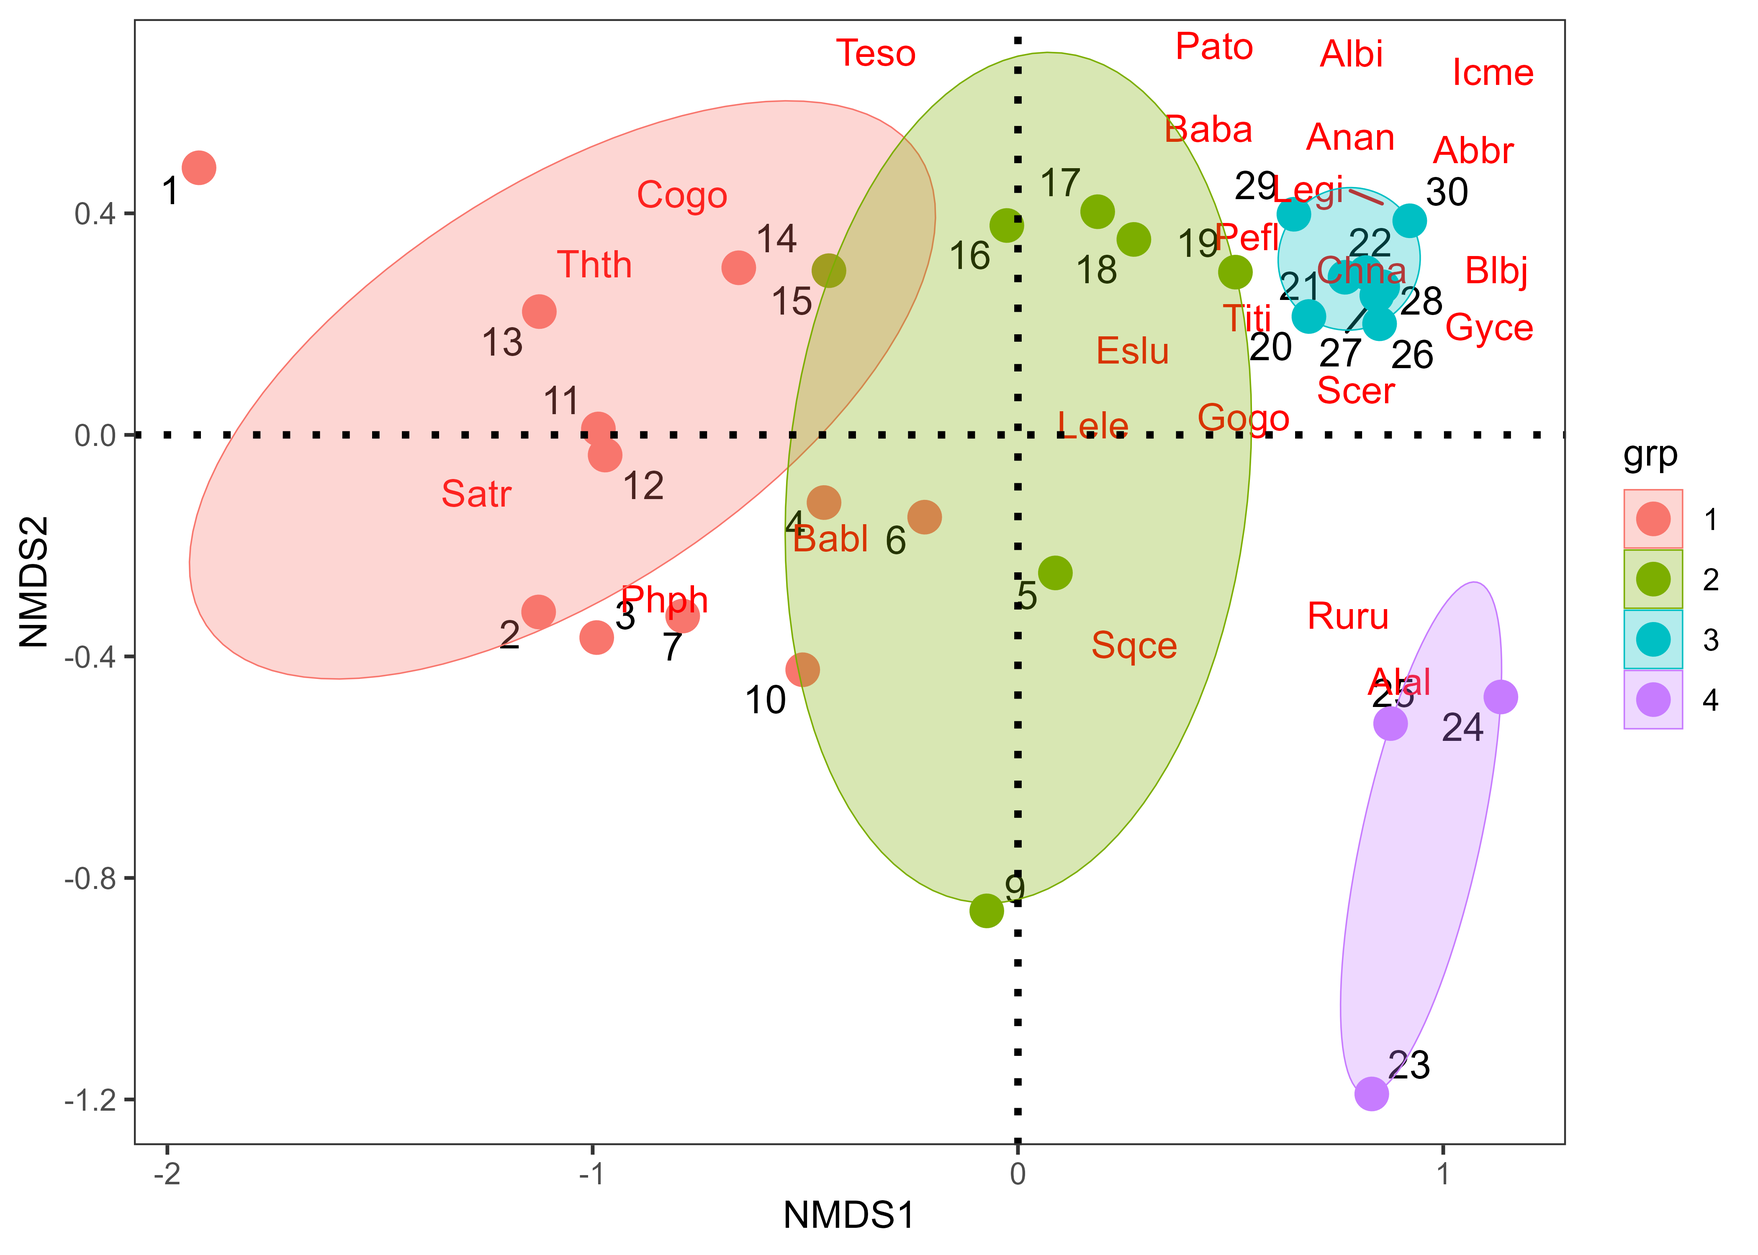
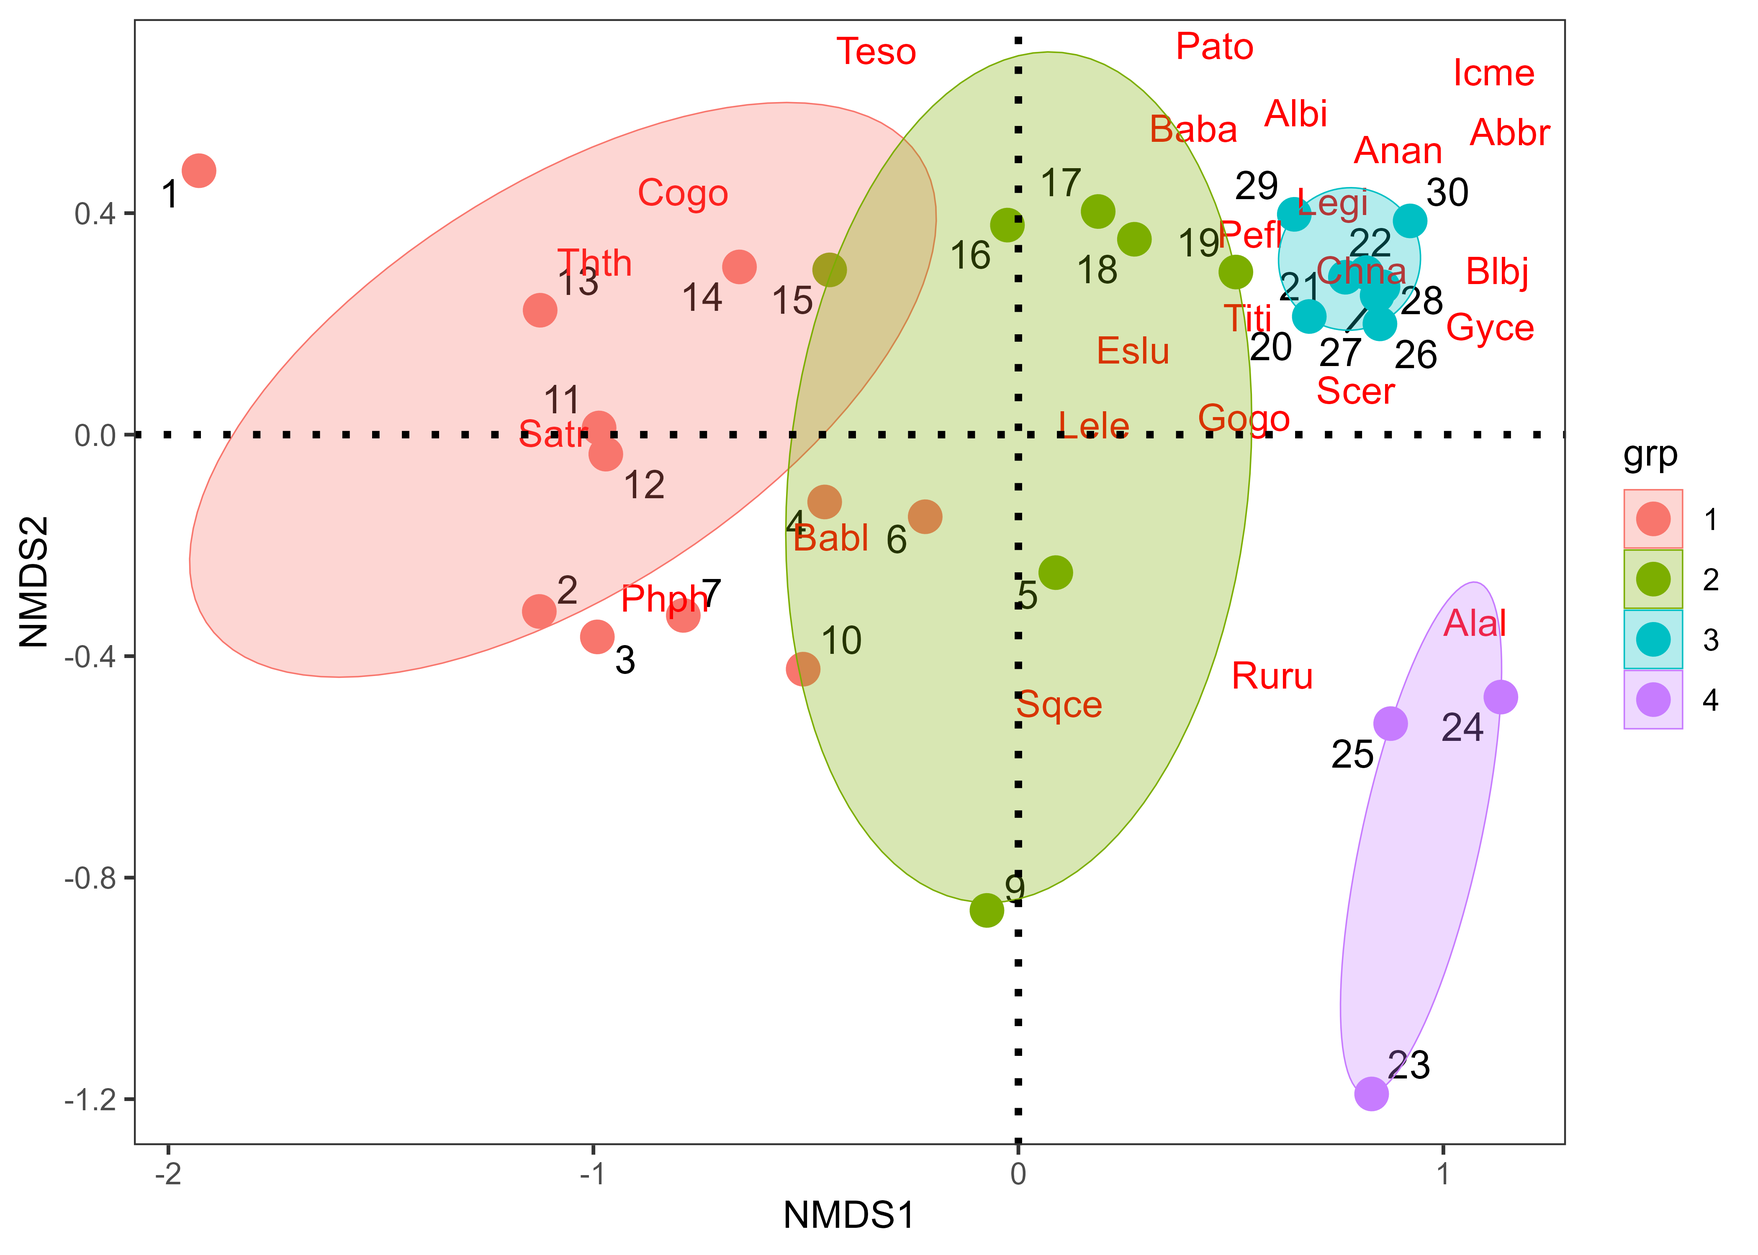
summary

diff --git a/9.Manual_mv_26/html/Taller3.exploratorios1.html b/9.Manual_mv_26/html/Taller3.exploratorios1.html
@@ -342,7 +342,7 @@ div.csl-indent {
 
 <section id="resumen-de-las-actividades" class="level2">
 <h2 class="anchored" data-anchor-id="resumen-de-las-actividades">Resumen de las actividades</h2>
-<p><img src="https://javier-2712.github.io/Manuales/9.Manual_mv_26/html/Figuras/figura_videos_exploratorios.png" class="img-fluid" width="600"></p>
+<p><img src="https://javier-2712.github.io/Manuales/9.Manual_mv_26/figuras/figura_videos_exploratorios.png" class="img-fluid" width="600"></p>
 <div class="callout callout-style-default callout-tip callout-titled">
 <div class="callout-header d-flex align-content-center">
 <div class="callout-icon-container">
@@ -447,7 +447,7 @@ Tabla&nbsp;1: Comparación de estrategias visuales para análisis ecológico exp
 </section>
 <section id="diapositivas-de-la-sección-versión-2023" class="level3">
 <h3 class="anchored" data-anchor-id="diapositivas-de-la-sección-versión-2023">Diapositivas de la sección (versión 2023)</h3>
-<p><img src="https://javier-2712.github.io/Manuales/9.Manual_mv_26/html/Figuras/Captura.JPG" class="img-fluid" width="356"></p>
+<p><img src="https://javier-2712.github.io/Manuales/9.Manual_mv_26/figuras/Captura.JPG" class="img-fluid" width="356"></p>
 <p>Es necesario abrir el siguiente enlace, las diapositivas solo avanzarán en la sesión de clases, por estar programadas para ser presentadas en vivo.</p>
 <p><a href="https://javier-2712.github.io/Multivariados/Taller.3.explor.multivar/diapositivas.exploratorios/Clase3.-Exploratorios.html#1">Diapositivas_exploratorios multivariados</a></p>
 <hr>
@@ -463,7 +463,7 @@ Tabla&nbsp;1: Comparación de estrategias visuales para análisis ecológico exp
 <p><strong>Nota:</strong> una vez se descarguen los materiales, se requiere descomprimirlos antes de realizar cualquier procedimiento y seguir las orientaciones del docente para realizar los ejercicios requeridos. Al final de cada taller hay un cuestionario que servirá para afianzar el entrenamiento sobre esta temática.</p>
 <section id="diapositivas-en-vivo---slides.com" class="level3">
 <h3 class="anchored" data-anchor-id="diapositivas-en-vivo---slides.com">Diapositivas en vivo - Slides.com</h3>
-<p><img src="https://javier-2712.github.io/Manuales/9.Manual_mv_26/html/Figuras/slides.com.png" class="img-fluid" width="150"></p>
+<p><img src="https://javier-2712.github.io/Manuales/9.Manual_mv_26/figuras/slides.com.png" class="img-fluid" width="150"></p>
 <ul>
 <li>📰 <a href="https://slides.com/d/IBI6xvY/live">Diapositivas del Taller 3.1_insectos_acuáticos</a></li>
 <li>📰 <a href="https://slides.com/d/gbwx5fY/live">Diapositivas del taller 3.2_mesozooplancton</a></li>
@@ -474,7 +474,7 @@ Tabla&nbsp;1: Comparación de estrategias visuales para análisis ecológico exp
 </section>
 <section id="asignación-4.-exlploración-gráfica-con-datos-de-peces" class="level3">
 <h3 class="anchored" data-anchor-id="asignación-4.-exlploración-gráfica-con-datos-de-peces">Asignación 4. Exlploración gráfica con datos de peces</h3>
-<p><img src="https://javier-2712.github.io/Manuales/9.Manual_mv_26/html/Figuras/4_icono_asignación_exploratorios.png" class="img-fluid" width="250"></p>
+<p><img src="https://javier-2712.github.io/Manuales/9.Manual_mv_26/figuras/4_icono_asignación_exploratorios.png" class="img-fluid" width="250"></p>
 <p>Basado en el artículo de <a href="https://link.springer.com/article/10.1007/s10750-021-04726-3">Miranda et al.&nbsp;(2022)</a>, <a href="https://javier-2712.github.io/Manuales/9.Manual_mv_26/asignaciones/4.visualizaci%C3%B3n/datos.xlsx">(base de datos)</a> se requiere realizar el procedimiento para el ajuste y manipulación de datos y para la visualización gráfica, como se indica a continuación.</p>
 <ul>
 <li>📰 <a href="https://javier-2712.github.io/Manuales/9.Manual_mv_26/asignaciones/4.visualizaci%C3%B3n/Taller.exploratorios.html">Pautas de la asignación 4</a></li>
@@ -485,7 +485,7 @@ Tabla&nbsp;1: Comparación de estrategias visuales para análisis ecológico exp
 </section>
 <section id="a.-caso-guiado-macroinvertebrados-bentónicos-fluviales" class="level2">
 <h2 class="anchored" data-anchor-id="a.-caso-guiado-macroinvertebrados-bentónicos-fluviales">A. Caso guiado: Macroinvertebrados bentónicos fluviales</h2>
-<p><img src="https://javier-2712.github.io/Manuales/9.Manual_mv_26/html/Figuras/macroinv.explor.png" class="img-fluid" width="650"></p>
+<p><img src="https://javier-2712.github.io/Manuales/9.Manual_mv_26/figuras/macroinv.explor.png" class="img-fluid" width="650"></p>
 <p>Este caso guiado consiste en analizar de forma gráfica a ensamblajes de macroinvertebrados bentónicos asociados a gradientes físico-químicos del río Gaira, en Santa Marta.</p>
 <p>El objetivo se orienta en trasladar la lógica de la visualización ecológica a un contexto enfocado en comparar distribuciones que permitan identificar patrones de dominancia, explorar relaciones entre variables revela gradientes ambientales, y seleccionar representaciones adecuadas facilita la interpretación de la estructura del ensamblaje.</p>
 <p>Este ejercicio consolida la visualización como una herramienta central para el análisis ecológico, permitiendo interpretar la organización de las comunidades biológicas en sistemas ambientalmente heterogéneos.</p>
@@ -1471,7 +1471,7 @@ Figura&nbsp;20: Differencias en la abundancia de insectos, los periodos de lluvi
 </section>
 <section id="b.-caso-guiado-mesozooplancton-estuarino" class="level2">
 <h2 class="anchored" data-anchor-id="b.-caso-guiado-mesozooplancton-estuarino">B. Caso guiado: Mesozooplancton estuarino</h2>
-<p><img src="https://javier-2712.github.io/Manuales/9.Manual_mv_26/html/Figuras/mesozoo.explor.png" class="img-fluid" width="650"></p>
+<p><img src="https://javier-2712.github.io/Manuales/9.Manual_mv_26/figuras/mesozoo.explor.png" class="img-fluid" width="650"></p>
 <p>El mesozooplancton constituye un componente fundamental de las redes tróficas de ambientes acuáticos, respondiendo rápidamente a cambios en parámetros ambientales asociados como salinidad, temperatura y disponibilidad de nutrientes, entre otros.</p>
 <p>A continuación se analiza un conjunto de datos de abundancia de organismos zooplanctónicos tomados de <span class="citation" data-cites="balentina2025short">Balentina et al. (<a href="#ref-balentina2025short" role="doc-biblioref">2025</a>)</span>, con el propósito de explorar su estructura mediante herramientas de visualización gráfica. Se abordarán representaciones que permiten identificar patrones de dominancia, distribución de abundancias y variabilidad entre unidades de muestreo o sitios. Se introduce además en un enfoque práctico para transformar datos ecológicos en representaciones visuales informativas, facilitando la interpretación de la dinámica comunitaria en este tipo de ecosistemas altamente fluctuantes.</p>
 <section id="resumen" class="level3">

diff --git a/9.Manual_mv_26/html/Videos_clases.html b/9.Manual_mv_26/html/Videos_clases.html
@@ -292,7 +292,7 @@ ul.task-list li input[type="checkbox"] {
 <hr>
 <section id="introducción-a-la-asignatura" class="level2 titulo-modulo">
 <h2 class="titulo-modulo anchored" data-anchor-id="introducción-a-la-asignatura">1. Introducción a la asignatura</h2>
-<p><img src="https://javier-2712.github.io/Manuales/9.Manual_mv_26/html/Figuras/figura_videos_introduccion_mv.png" class="img-fluid" width="584"></p>
+<p><img src="https://javier-2712.github.io/Manuales/9.Manual_mv_26/figuras/figura_videos_introduccion_mv.png" class="img-fluid" width="584"></p>
 <section id="teoría---introducción-a-la-asignatura" class="level3 titulo-tema">
 <h3 class="titulo-tema anchored" data-anchor-id="teoría---introducción-a-la-asignatura">Teoría - Introducción a la asignatura</h3>
 <p><span class="etiqueta-periodo">( 2026-II )</span></p>
@@ -335,7 +335,7 @@ ul.task-list li input[type="checkbox"] {
 </section>
 <section id="introducción-al-algebra-lineal" class="level2 titulo-modulo">
 <h2 class="titulo-modulo anchored" data-anchor-id="introducción-al-algebra-lineal">2. Introducción al Algebra Lineal</h2>
-<p><img src="https://javier-2712.github.io/Manuales/9.Manual_mv_26/html/Figuras/figura_videos_algebra.png" class="img-fluid" width="484"></p>
+<p><img src="https://javier-2712.github.io/Manuales/9.Manual_mv_26/figuras/figura_videos_algebra.png" class="img-fluid" width="484"></p>
 <section id="ejercicios-en-clase---aplicaciones-de-algebra" class="level3 titulo-tema">
 <h3 class="titulo-tema anchored" data-anchor-id="ejercicios-en-clase---aplicaciones-de-algebra">2. Ejercicios en clase - Aplicaciones de Algebra</h3>
 <p><span class="etiqueta-periodo">( 2026-II )</span></p>
@@ -357,7 +357,7 @@ ul.task-list li input[type="checkbox"] {
 </section>
 <section id="exploración-gráfica" class="level2 titulo-modulo">
 <h2 class="titulo-modulo anchored" data-anchor-id="exploración-gráfica">3. Exploración Gráfica</h2>
-<p><img src="https://javier-2712.github.io/Manuales/9.Manual_mv_26/html/Figuras/figura_videos_exploratorios.png" class="img-fluid" width="484"></p>
+<p><img src="https://javier-2712.github.io/Manuales/9.Manual_mv_26/figuras/figura_videos_exploratorios.png" class="img-fluid" width="484"></p>
 <section id="teoría-y-ejemplos---excel" class="level3 titulo-tema">
 <h3 class="titulo-tema anchored" data-anchor-id="teoría-y-ejemplos---excel">Teoría y ejemplos - Excel</h3>
 <p><span class="etiqueta-periodo">( Material de referencia (atemporal) )</span></p>
@@ -400,7 +400,7 @@ ul.task-list li input[type="checkbox"] {
 </section>
 <section id="ordenación-multivariada---pca" class="level2 titulo-modulo">
 <h2 class="titulo-modulo anchored" data-anchor-id="ordenación-multivariada---pca">4. Ordenación multivariada - PCA</h2>
-<p><img src="https://javier-2712.github.io/Manuales/9.Manual_mv_26/html/Figuras/figura_videos_pca.png" class="img-fluid" width="484"></p>
+<p><img src="https://javier-2712.github.io/Manuales/9.Manual_mv_26/figuras/figura_videos_pca.png" class="img-fluid" width="484"></p>
 <section id="teoría-y-ejemplos" class="level3 titulo-tema">
 <h3 class="titulo-tema anchored" data-anchor-id="teoría-y-ejemplos">Teoría y ejemplos</h3>
 <p><span class="etiqueta-periodo">( Material de referencia (atemporal) )</span></p>
@@ -428,7 +428,7 @@ ul.task-list li input[type="checkbox"] {
 </section>
 <section id="ordenación-multivariada---nmds" class="level2 titulo-modulo">
 <h2 class="titulo-modulo anchored" data-anchor-id="ordenación-multivariada---nmds">5. Ordenación multivariada - NMDS</h2>
-<p><img src="https://javier-2712.github.io/Manuales/9.Manual_mv_26/html/Figuras/figura_videos_nmds.png" class="img-fluid" width="484"></p>
+<p><img src="https://javier-2712.github.io/Manuales/9.Manual_mv_26/figuras/figura_videos_nmds.png" class="img-fluid" width="484"></p>
 <section id="teoría" class="level3 titulo-tema">
 <h3 class="titulo-tema anchored" data-anchor-id="teoría">Teoría</h3>
 <p><span class="etiqueta-periodo">( Material de referencia (atemporal) )</span></p>
@@ -454,7 +454,7 @@ ul.task-list li input[type="checkbox"] {
 </section>
 <section id="clasificación-multivariada---cla" class="level2 titulo-modulo">
 <h2 class="titulo-modulo anchored" data-anchor-id="clasificación-multivariada---cla">6. Clasificación Multivariada - CLA</h2>
-<p><img src="https://javier-2712.github.io/Manuales/9.Manual_mv_26/html/Figuras/figura_videos_clúster.png" class="img-fluid" width="484"></p>
+<p><img src="https://javier-2712.github.io/Manuales/9.Manual_mv_26/figuras/figura_videos_clúster.png" class="img-fluid" width="484"></p>
 <section id="teoría-1" class="level3 titulo-tema">
 <h3 class="titulo-tema anchored" data-anchor-id="teoría-1">Teoría</h3>
 <p><span class="etiqueta-periodo">( Material de referencia (atemporal) )</span></p>
@@ -481,7 +481,7 @@ ul.task-list li input[type="checkbox"] {
 </section>
 <section id="clasificación-multivariada---lda-manova-y-permanova" class="level2 titulo-modulo">
 <h2 class="titulo-modulo anchored" data-anchor-id="clasificación-multivariada---lda-manova-y-permanova">7 - 9. Clasificación Multivariada - LDA, MANOVA y PERMANOVA</h2>
-<p><img src="https://javier-2712.github.io/Manuales/9.Manual_mv_26/html/Figuras/figura_videos_lda_hipotesis.png" class="img-fluid" width="484"></p>
+<p><img src="https://javier-2712.github.io/Manuales/9.Manual_mv_26/figuras/figura_videos_lda_hipotesis.png" class="img-fluid" width="484"></p>
 <section id="teoría-y-ejemplos-1" class="level3 titulo-tema">
 <h3 class="titulo-tema anchored" data-anchor-id="teoría-y-ejemplos-1">Teoría y ejemplos</h3>
 <p><span class="etiqueta-periodo">( Material de referencia (atemporal) )</span></p>

diff --git a/9.Manual_mv_26/html/Taller5.2.nmds.peces.html b/9.Manual_mv_26/html/Taller5.2.nmds.peces.html
@@ -315,7 +315,7 @@ pre > code.sourceCode > span > a:first-child::before { text-decoration: underlin
 <p><strong>Nota:</strong> una vez se descarguen los materiales, se requiere descomprimirlos antes de realizar cualquier procedimiento y seguir las orientaciones del docente para realizar los ejercicios requeridos. Al final de cada taller hay un cuestionario que servirá para afianzar el entrenamiento sobre esta temática.</p>
 <section id="diapositivas-en-vivo---slides.com" class="level3">
 <h3 class="anchored" data-anchor-id="diapositivas-en-vivo---slides.com">Diapositivas en vivo - Slides.com</h3>
-<p><img src="https://javier-2712.github.io/Manuales/9.Manual_mv_26/html/Figuras/slides.com.png" class="img-fluid" width="110"></p>
+<p><img src="https://javier-2712.github.io/Manuales/9.Manual_mv_26/figuras/slides.com.png" class="img-fluid" width="110"></p>
 <ul>
 <li>📰 <a href="https://slides.com/d/XQVHx8E/live">Diapositivas del Taller 4.2_pca_PNNT</a></li>
 </ul>
@@ -1153,12 +1153,12 @@ Tabla&nbsp;1.1: Datos de abundancia de insectos en los diez primeros sitios
 <span id="cb16-5"><a href="#cb16-5" aria-hidden="true" tabindex="-1"></a><span class="fu">head</span>(coord.sit)</span></code></pre></div><button title="Copiar al portapapeles" class="code-copy-button"><i class="bi"></i></button></div>
 <div class="cell-output cell-output-stdout">
 <pre><code>        NMDS1      NMDS2 sitio grp
-1 -1.92559280  0.4822701     1   1
-2 -1.12704294 -0.3197642     2   1
-3 -0.99046071 -0.3659707     3   1
-4 -0.45598804 -0.1222225     4   1
-5  0.08804966 -0.2492497     5   2
-6 -0.21930710 -0.1485750     6   1</code></pre>
+1 -1.92800729  0.4766476     1   1
+2 -1.12729002 -0.3192676     2   1
+3 -0.99073021 -0.3652446     3   1
+4 -0.45581660 -0.1215644     4   1
+5  0.08799635 -0.2491614     5   2
+6 -0.21925492 -0.1482375     6   1</code></pre>
 </div>
 </div>
 </section>
@@ -1170,13 +1170,13 @@ Tabla&nbsp;1.1: Datos de abundancia de insectos en los diez primeros sitios
 <span id="cb18-3"><a href="#cb18-3" aria-hidden="true" tabindex="-1"></a>coord.esp<span class="sc">$</span>especies <span class="ot">&lt;-</span> <span class="fu">rownames</span>(coord.esp)                <span class="co"># Insertar columna con nombres de las especies</span></span>
 <span id="cb18-4"><a href="#cb18-4" aria-hidden="true" tabindex="-1"></a><span class="fu">head</span>(coord.esp)</span></code></pre></div><button title="Copiar al portapapeles" class="code-copy-button"><i class="bi"></i></button></div>
 <div class="cell-output cell-output-stdout">
-<pre><code>          NMDS1       NMDS2 especies
-Cogo -0.8780592  0.38165301     Cogo
-Satr -1.1842601 -0.05050014     Satr
-Phph -0.7413346 -0.24226142     Phph
-Babl -0.5295822 -0.23940318     Babl
-Thth -0.9068171  0.36277008     Thth
-Teso -0.4226611  0.63780170     Teso</code></pre>
+<pre><code>          NMDS1      NMDS2 especies
+Cogo -0.8779189  0.3842856     Cogo
+Satr -1.1847734 -0.0507332     Satr
+Phph -0.7413867 -0.2407102     Phph
+Babl -0.5296049 -0.2382348     Babl
+Thth -0.9066913  0.3654826     Thth
+Teso -0.4223413  0.6397060     Teso</code></pre>
 </div>
 </div>
 </section>
@@ -1189,12 +1189,12 @@ Teso -0.4226611  0.63780170     Teso</code></pre>
 <span id="cb20-4"><a href="#cb20-4" aria-hidden="true" tabindex="-1"></a><span class="fu">head</span>(coord.amb) </span></code></pre></div><button title="Copiar al portapapeles" class="code-copy-button"><i class="bi"></i></button></div>
 <div class="cell-output cell-output-stdout">
 <pre><code>          NMDS1      NMDS2 amb
-dfs  0.73832757  0.4642275 dfs
-ele -0.64603527 -0.5239272 ele
-slo -0.51581924  0.2499614 slo
-dis  0.54665705  0.5475016 dis
-pH  -0.02831614  0.1365205  pH
-har  0.58991795  0.1891231 har</code></pre>
+dfs  0.73833085  0.4640936 dfs
+ele -0.64581407 -0.5244304 ele
+slo -0.51725407  0.2465896 slo
+dis  0.54654638  0.5476388 dis
+pH  -0.02816644  0.1373105  pH
+har  0.58965728  0.1907659 har</code></pre>
 </div>
 <div class="code-copy-outer-scaffold"><div class="sourceCode cell-code" id="cb22"><pre class="sourceCode r code-with-copy"><code class="sourceCode r"><span id="cb22-1"><a href="#cb22-1" aria-hidden="true" tabindex="-1"></a><span class="co"># Para los casos en los que "vectors" no funcione, aplicar:</span></span>
 <span id="cb22-2"><a href="#cb22-2" aria-hidden="true" tabindex="-1"></a><span class="co"># coord.amb = as.data.frame(amb$vectors$arrows)</span></span></code></pre></div><button title="Copiar al portapapeles" class="code-copy-button"><i class="bi"></i></button></div>

diff --git a/9.Manual_mv_26/html/Taller2.1.Introducción.html b/9.Manual_mv_26/html/Taller2.1.Introducción.html
@@ -280,7 +280,7 @@ div.csl-indent {
 </section>
 <section id="programa-rstudio" class="level2 titulo-seccion">
 <h2 class="titulo-seccion anchored" data-anchor-id="programa-rstudio">Programa RStudio</h2>
-<p><img src="https://javier-2712.github.io/Manuales/9.Manual_mv_26/html/Figuras/RStudio.png" class="img-fluid" style="width:53.0%"></p>
+<p><img src="https://javier-2712.github.io/Manuales/9.Manual_mv_26/figuras/RStudio.png" class="img-fluid" style="width:53.0%"></p>
 <p><strong>Documentos de soporte.</strong> Revisar los siguientes enlaces para ampliar información sobre el programa que se utilizará a lo largo de la asignatura.</p>
 <ul>
 <li><p>📰<a href="https://javier-2712.github.io/Multivariados_MSc/Taller1.Intro.html">Operaciones básicas en RStudio</a></p></li>
@@ -311,7 +311,7 @@ div.csl-indent {
 </section>
 <section id="importación-y-exportación-de-datos-en-tidyverse-y-visualización-en-ggplot2" class="level2 titulo-seccion">
 <h2 class="titulo-seccion anchored" data-anchor-id="importación-y-exportación-de-datos-en-tidyverse-y-visualización-en-ggplot2">Importación y Exportación de datos en tidyverse y visualización en ggplot2</h2>
-<p><img src="https://javier-2712.github.io/Manuales/9.Manual_mv_26/html/Figuras/tidyverse_ggplot2.png" class="img-fluid" style="width:60.0%"></p>
+<p><img src="https://javier-2712.github.io/Manuales/9.Manual_mv_26/figuras/tidyverse_ggplot2.png" class="img-fluid" style="width:60.0%"></p>
 <p>En los siguientes enlaces se podrán descargar archivos comprimidos de los tres talleres donde se pueden aplicar procedimientos de manipulación de bases de datos en Excel y RStudio, con librerías asociadas principalmente al tidyverse (manejo de datos) y a ggplot2 (visualización gráfica) generando reportes en formato HTML (📰 Materiales del taller Taller2.1_lirios_y_mesozooplancton_html), y en formato PDF (📰 Materiales del taller Taller2.1_lirios_y_mesozooplancton_pdf).</p>
 <ul>
 <li>📰 <a href="https://javier-2712.github.io/Multivariados/Taller2.1_Intro.RStudio/Taller2.1_html.zip">Materiales del taller Taller2.1_lirios_y_mesozooplancton_html</a></li>

diff --git a/9.Manual_mv_26/html/Taller2.2.Introd.matrices.html b/9.Manual_mv_26/html/Taller2.2.Introd.matrices.html
@@ -243,7 +243,7 @@ ul.task-list li input[type="checkbox"] {
 </header>
 
 
-<p><img src="https://javier-2712.github.io/Manuales/9.Manual_mv_26/html/Figuras/video_algebra_lineal_1.png" class="img-fluid" width="448"></p>
+<p><img src="https://javier-2712.github.io/Manuales/9.Manual_mv_26/figuras/video_algebra_lineal_1.png" class="img-fluid" width="448"></p>
 <section id="objetivo-de-la-actividad" class="level2 titulo-objetivo">
 <h2 class="titulo-objetivo anchored" data-anchor-id="objetivo-de-la-actividad">Objetivo de la actividad</h2>
 <p>El presente taller tiene como objetivo, realizar un entrenamiento básico, realizar un entrenamiento general sobre algebra lineal aplicada a datos multivariados. Iniciarémos con operaciones básicas y posteriormente se realizarán algunas aplicaciones estadísticas como el análisis de componentes principales (pca) y el análisis discriminante (lda).</p>
